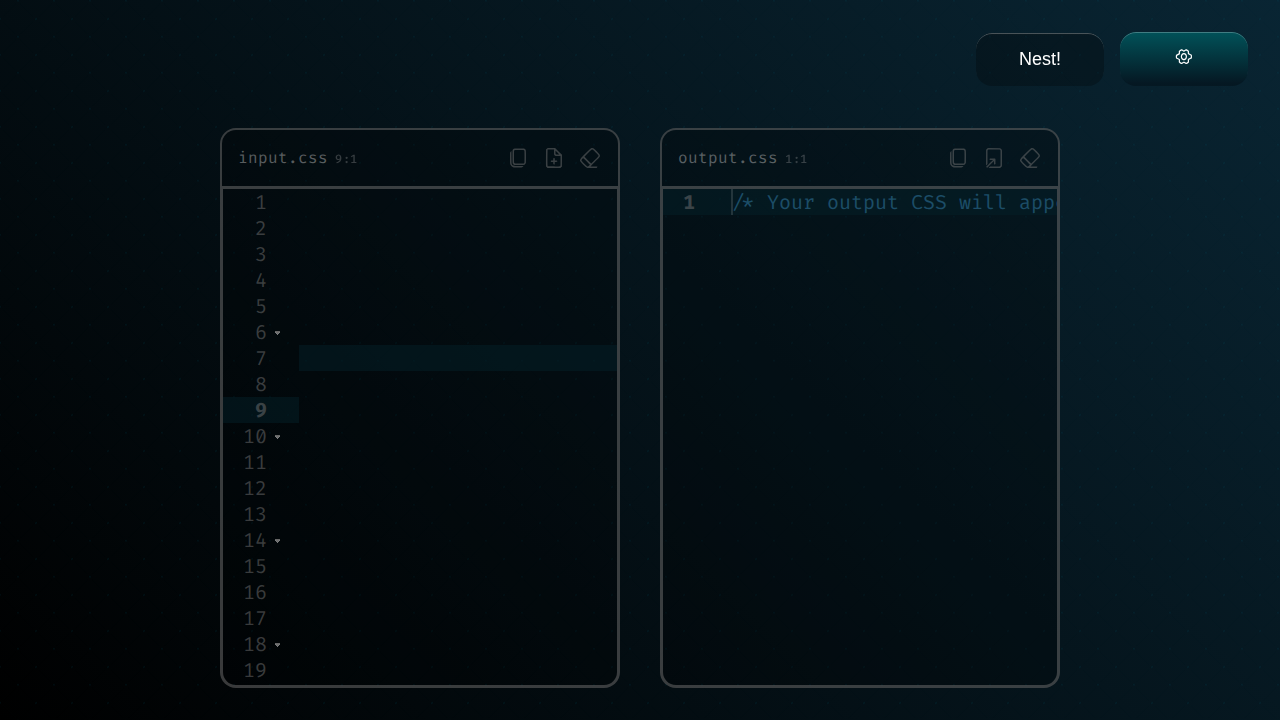
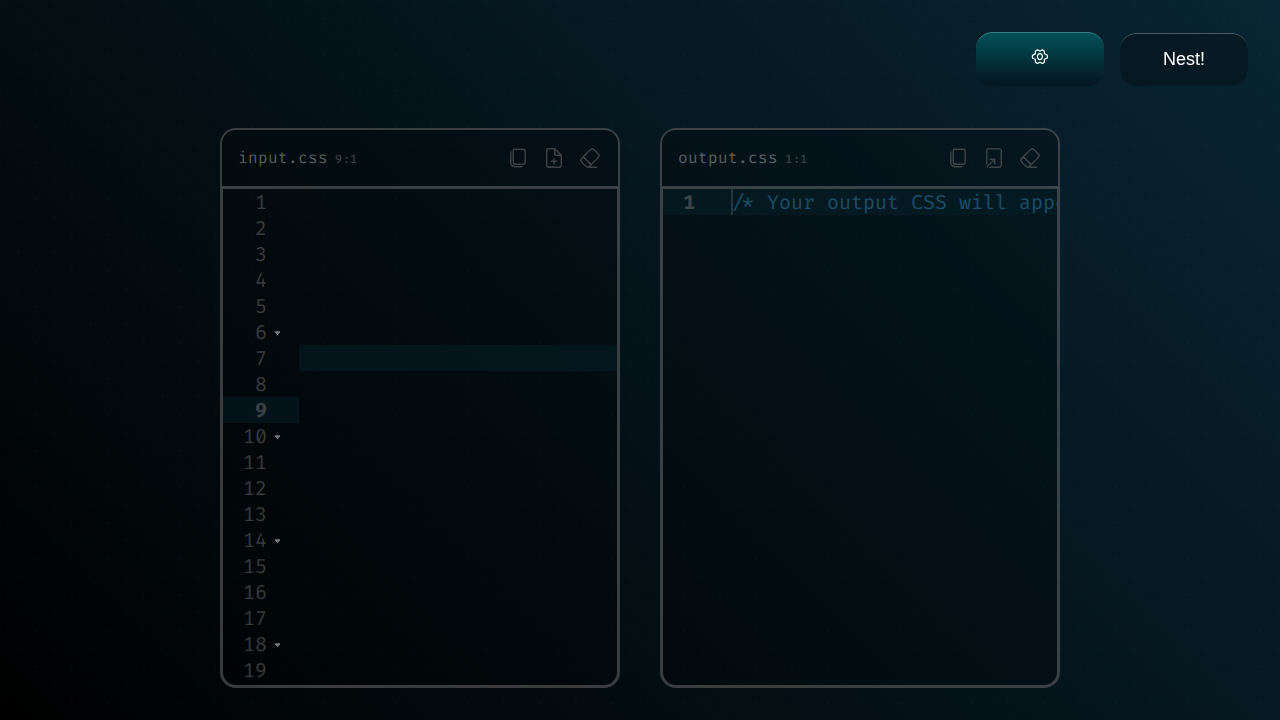
feat: add Functionality and Editor settings to Quickly
- Implemented a glassmorphic settings popover with Functionality and Editor sections.
- Integrated settings with Ace editors (font, size, wrap, indentation).
- Added persistent storage using localStorage.
- Refactored header button layout and implemented dynamic "Auto" button state.
- Developed a custom auto-repeat numeric stepper for Indentation Size.
- Implemented granular coordinate display modes (None, Line, Col, Both).
- Enhanced responsive layout and glassmorphic UI effects.

Changed region(s): [[0.75, 0.0306, 1.0, 0.0917]]

diff --git a/scripts/settings.js b/scripts/settings.js
@@ -5,6 +5,8 @@
   // Toggle popover
   toggleBtn.addEventListener('click', (e) => {
     popover.classList.toggle('hidden');
+    // Close all dropdowns when opening/closing main settings
+    document.querySelectorAll('.dropdown input[type="checkbox"]').forEach(cb => cb.checked = false);
     e.stopPropagation();
   });
 
@@ -15,7 +17,13 @@
 
     // Close dropdowns when clicking outside
     if (!e.target.closest('.dropdown')) {
-        document.querySelectorAll('.dropdown input[type="checkbox"]').forEach(cb => cb.checked = false);
+        document.querySelectorAll('.dropdown input[type="checkbox"]').forEach(cb => {
+            cb.checked = false;
+            const output = cb.nextElementSibling;
+            if (output && output.tagName === 'OUTPUT') {
+                output.setAttribute('aria-expanded', 'false');
+            }
+        });
     }
   });
 
@@ -184,6 +192,27 @@
   // Event Listeners
 
   // Font Dropdown
+  // Close other dropdowns when one is opened
+  document.querySelectorAll('.dropdown input[type="checkbox"]').forEach(cb => {
+      cb.addEventListener('change', (e) => {
+          const output = e.target.nextElementSibling;
+          if (output && output.tagName === 'OUTPUT') {
+              output.setAttribute('aria-expanded', e.target.checked);
+          }
+          if (e.target.checked) {
+              document.querySelectorAll('.dropdown input[type="checkbox"]').forEach(other => {
+                  if (other !== e.target) {
+                      other.checked = false;
+                      const otherOutput = other.nextElementSibling;
+                      if (otherOutput && otherOutput.tagName === 'OUTPUT') {
+                          otherOutput.setAttribute('aria-expanded', 'false');
+                      }
+                  }
+              });
+          }
+      });
+  });
+
   document.querySelectorAll('#typefaces-listbox li').forEach(li => {
       li.addEventListener('click', () => {
           const fontMap = {
@@ -193,7 +222,9 @@
               "PT Mono": "'PT Mono', monospace"
           };
           const val = fontMap[li.textContent] || "'Fira Code', monospace";
-          document.querySelector('#typefaces output').textContent = li.textContent;
+          const output = document.querySelector('#typefaces output');
+          output.textContent = li.textContent;
+          output.setAttribute('aria-expanded', 'false');
           document.getElementById('typefaces-checkbox').checked = false;
           updateSetting('font', val);
       });
@@ -202,7 +233,9 @@
   // Font Size Dropdown
   document.querySelectorAll('#fontsizes-listbox li').forEach(li => {
       li.addEventListener('click', () => {
-          document.querySelector('#fontsizes output').textContent = li.textContent;
+          const output = document.querySelector('#fontsizes output');
+          output.textContent = li.textContent;
+          output.setAttribute('aria-expanded', 'false');
           document.getElementById('fontsizes-checkbox').checked = false;
           updateSetting('fontsize', li.textContent);
       });
@@ -218,14 +251,43 @@
   indentInput.addEventListener('input', (e) => {
       updateSetting('indent-size', e.target.value);
   });
-  document.getElementById('indent-up').addEventListener('click', () => {
-      indentInput.value = parseInt(indentInput.value) + 1;
-      updateSetting('indent-size', indentInput.value);
-  });
-  document.getElementById('indent-down').addEventListener('click', () => {
-      indentInput.value = Math.max(1, parseInt(indentInput.value) - 1);
-      updateSetting('indent-size', indentInput.value);
-  });
+
+  const changeIndentSize = (delta) => {
+    const val = parseInt(indentInput.value) || 0;
+    indentInput.value = Math.max(1, val + delta);
+    updateSetting('indent-size', indentInput.value);
+  };
+
+  const setupAutoRepeat = (btn, delta) => {
+    let interval;
+    let timeout;
+
+    const start = () => {
+        changeIndentSize(delta);
+        timeout = setTimeout(() => {
+            interval = setInterval(() => changeIndentSize(delta), 100);
+        }, 500);
+    };
+
+    const stop = () => {
+        clearTimeout(timeout);
+        clearInterval(interval);
+    };
+
+    btn.addEventListener('mousedown', (e) => {
+        if (e.button === 0) start();
+    });
+    btn.addEventListener('mouseup', stop);
+    btn.addEventListener('mouseleave', stop);
+    btn.addEventListener('touchstart', (e) => {
+        e.preventDefault();
+        start();
+    }, { passive: false });
+    btn.addEventListener('touchend', stop);
+  };
+
+  setupAutoRepeat(document.getElementById('indent-up'), 1);
+  setupAutoRepeat(document.getElementById('indent-down'), -1);
 
   // Word Wrap
   document.getElementById('word-wrap-checkbox').addEventListener('change', (e) => {

diff --git a/index.html b/index.html
@@ -21,7 +21,6 @@
 </head>
 <body>
   <div class="header-controls">
-    <button id="nest-btn" class="header-btn">Nest!</button>
     <div class="settings-container">
       <button id="settings-toggle" class="header-btn vibrant" title="Settings">
         <i class="ph ph-gear-six"></i>
@@ -37,7 +36,7 @@
                 <label id="typefaces" class="dropdown" for="typefaces-checkbox" role="presentation">
                   <input type="checkbox" id="typefaces-checkbox">
                   <output role="button" aria-haspopup="listbox" aria-expanded="false" aria-controls="typefaces-listbox" aria-labelledby="font-label" aria-activedescendant="typefaces-option-2">Fira Code</output>
-                  <ul hidden="" id="typefaces-listbox" role="listbox" aria-labelledby="font-label">
+                  <ul id="typefaces-listbox" role="listbox" aria-labelledby="font-label">
                     <li id="typefaces-option-1" role="option" tabindex="-1">DejaVu Mono</li>
                     <li id="typefaces-option-2" role="option" tabindex="-1" aria-selected="true">Fira Code</li>
                     <li id="typefaces-option-3" role="option" tabindex="-1">iA Writer Mono</li>
@@ -48,7 +47,7 @@
                 <label id="fontsizes" class="dropdown" for="fontsizes-checkbox" role="presentation">
                   <input type="checkbox" id="fontsizes-checkbox">
                   <output role="button" aria-haspopup="listbox" aria-expanded="false" aria-controls="fontsizes-listbox" aria-label="Font Size" aria-activedescendant="fontsizes-option-4">1.25rem</output>
-                  <ul hidden="" id="fontsizes-listbox" role="listbox" aria-label="Font Size">
+                  <ul id="fontsizes-listbox" role="listbox" aria-label="Font Size">
                     <li id="fontsizes-option-1" role="option" tabindex="-1">0.5rem</li>
                     <li id="fontsizes-option-2" role="option" tabindex="-1">0.75rem</li>
                     <li id="fontsizes-option-3" role="option" tabindex="-1">1rem</li>
@@ -74,10 +73,10 @@
                 <label id="indentationSize" class="number" for="indentation-size-input">
                   <span id="indentation-size-label">Size:</span>
                   <output>
-                    <input type="text" inputmode="numeric" aria-labelledby="indentation-size-label" id="indentation-size-input" value="4">
+                    <input type="number" aria-labelledby="indentation-size-label" id="indentation-size-input" value="4" min="1" max="16">
                     <div>
-                      <svg role="button" id="indent-up" aria-label="Increase indentation size" fill="#484848" viewBox="0 0 24 24" xmlns="http://www.w3.org/2000/svg"><path d="M3 19h18a1.002 1.002 0 0 0 .823-1.569l-9-13c-.373-.539-1.271-.539-1.645 0l-9 13A.999.999 0 0 0 3 19z"></path></svg>
-                      <svg role="button" id="indent-down" aria-label="Decrease indentation size" fill="#484848" viewBox="0 0 24 24" xmlns="http://www.w3.org/2000/svg"><path d="M11.178 19.569a.998.998 0 0 0 1.644 0l9-13A.999.999 0 0 0 21 5H3a1.002 1.002 0 0 0-.822 1.569l9 13z"></path></svg>
+                      <svg role="button" id="indent-up" aria-label="Increase indentation size" fill="currentColor" viewBox="0 0 24 24" xmlns="http://www.w3.org/2000/svg"><path d="M3 19h18a1.002 1.002 0 0 0 .823-1.569l-9-13c-.373-.539-1.271-.539-1.645 0l-9 13A.999.999 0 0 0 3 19z"></path></svg>
+                      <svg role="button" id="indent-down" aria-label="Decrease indentation size" fill="currentColor" viewBox="0 0 24 24" xmlns="http://www.w3.org/2000/svg"><path d="M11.178 19.569a.998.998 0 0 0 1.644 0l9-13A.999.999 0 0 0 21 5H3a1.002 1.002 0 0 0-.822 1.569l9 13z"></path></svg>
                     </div>
                   </output>
                 </label>
@@ -144,6 +143,7 @@
         </section>
       </aside>
     </div>
+    <button id="nest-btn" class="header-btn">Nest!</button>
   </div>
   <main>
     <div id="code-editor-wrapper">

diff --git a/scripts/main.js b/scripts/main.js
@@ -121,3 +121,35 @@ function waitElementTransitionEnd(element, fallbackDurationMs) {
     failsafeTimeoutId = setTimeout(finalize, fallbackDurationMs + 50);
   });
 }
+
+/**
+ * Creates a throttled function that only invokes `func` at most once per
+ * every `wait` milliseconds.
+ *
+ * @param {Function} func The function to throttle.
+ * @param {number} wait The number of milliseconds to throttle invocations to.
+ * @returns {Function} Returns the new throttled function.
+ */
+function throttle(func, wait) {
+    let timeout = null;
+    let previous = 0;
+    const throttled = function() {
+        const now = Date.now();
+        const remaining = wait - (now - previous);
+        if (remaining <= 0 || remaining > wait) {
+            if (timeout) {
+                clearTimeout(timeout);
+                timeout = null;
+            }
+            previous = now;
+            func.apply(this, arguments);
+        } else if (!timeout) {
+            timeout = setTimeout(() => {
+                previous = Date.now();
+                timeout = null;
+                func.apply(this, arguments);
+            }, remaining);
+        }
+    };
+    return throttled;
+}

diff --git a/styles/main.css b/styles/main.css
@@ -256,7 +256,7 @@ html {
     padding: 1em;
     gap: 0.5em;
     flex-direction: column;
-    background: rgb(from var(--shades-darkest) r g b / 0.75);
+    background: rgb(from color-mix(in srgb, var(--shades-darkest), var(--pri-colour-darkest) 75%) r g b / 0.75);
     backdrop-filter: blur(25px);
     border-radius: 1rem;
     box-shadow: 0px 10px 10px 2.5px rgb(from var(--shades-black) r g b / 0.5);
@@ -302,6 +302,16 @@ html {
     width: 3ch;
     text-align: center;
     outline: none;
+}
+
+#mainSettings .number > output > input::-webkit-outer-spin-button,
+#mainSettings .number > output > input::-webkit-inner-spin-button {
+  -webkit-appearance: none !important;
+  margin: 0;
+}
+
+#mainSettings .number > output > input[type=number] {
+  -moz-appearance: textfield !important;
 }
 
 #mainSettings .number > output > div {
@@ -386,7 +396,7 @@ html {
     color: var(--shades-lightest);
 }
 
-#mainSettings .radio-group > label:hover {
+#mainSettings .radio-group > label:not(:has(:checked)):hover {
     color: var(--component-text-hover);
 }
 
